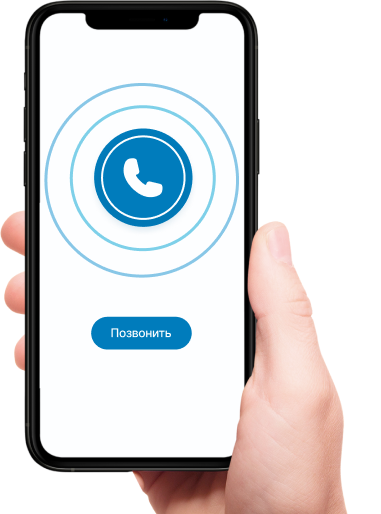
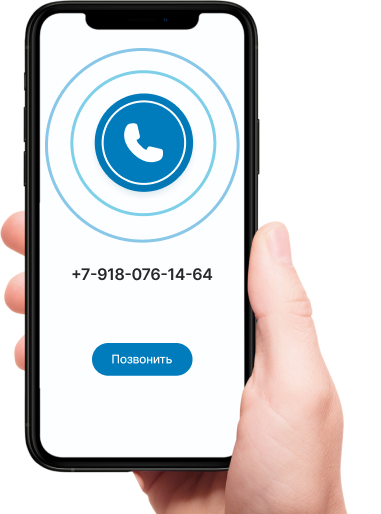
AdFirst - new changes

diff --git a/src/components/ADFirst/ADFirst.jsx b/src/components/ADFirst/ADFirst.jsx
@@ -1,5 +1,7 @@
 import styles from "./ADFirst.module.scss";
 import img from "../../images/AD-1.png";
+import img1 from "../../images/AD-1-small.png";
+import ResizeComponent from "../ResizeComponent/ResizeComponent";
 
 export default function ADFirst() {
   return (
@@ -8,13 +10,30 @@ export default function ADFirst() {
         <h3 className={styles.background__text__title}>
           Оказываем <br /> поддержку 24/7
         </h3>
+        <ResizeComponent
+          defaultComponent={<></>}
+          resizedComponent={
+            <span className={styles.background__text__number}>
+              +7-918-076-14-64
+            </span>
+          }
+          resizeValue="925"
+        />
         <p className={styles.background__text__p}>
           Поможем разобраться в деталях, объясним принцип работы, правильно
           настроим оборудование, проконсультируем перед покупкой и всегда будем
           на связи после приобретения товара
         </p>
       </span>
-      <img src={img} alt="" className={styles.background__image} />
+      <ResizeComponent
+        defaultComponent={
+          <img src={img} alt="" className={styles.background__image} />
+        }
+        resizedComponent={
+          <img src={img1} alt="" className={styles.background__image} />
+        }
+        resizeValue="925"
+      />
     </span>
   );
 }

diff --git a/src/components/ADFirst/ADFirst.module.scss b/src/components/ADFirst/ADFirst.module.scss
@@ -17,7 +17,7 @@
     width: 100%;
     @include flex-column;
     align-items: flex-start;
-    gap: $indent-65;
+    gap: 25px;
     padding-bottom: 50px;
 
     &__title {
@@ -30,6 +30,18 @@
       font-weight: 500;
       letter-spacing: -1px;
       color: $main-white;
+    }
+
+    &__number {
+      @include inter-medium-14;
+      font-size: 18px;
+      line-height: normal;
+      color: $main-black;
+      width: max-content;
+      height: 100%;
+      padding: 8px 10px;
+      background-color: $main-white;
+      border-radius: 25px;
     }
   }
 
@@ -95,6 +107,9 @@
 @media screen and (max-width: 925px) {
   .background__text__p {
     max-width: 400px;
+  }
+  .background__image {
+    right: 10px;
   }
 }
 
@@ -175,11 +190,17 @@
   .background__text__p {
     max-width: 170px;
   }
+  .background__text__number {
+    font-size: 14px;
+  }
 }
 
 @media screen and (max-width: 460px) {
   .background__text__p {
     max-width: 340px;
+  }
+  .background {
+    min-height: 540px;
   }
 }
 
@@ -202,6 +223,9 @@
 }
 
 @media screen and (max-width: 340px) {
+  .background {
+    min-height: 580px;
+  }
   .background__text__p {
     max-width: 250px;
   }
